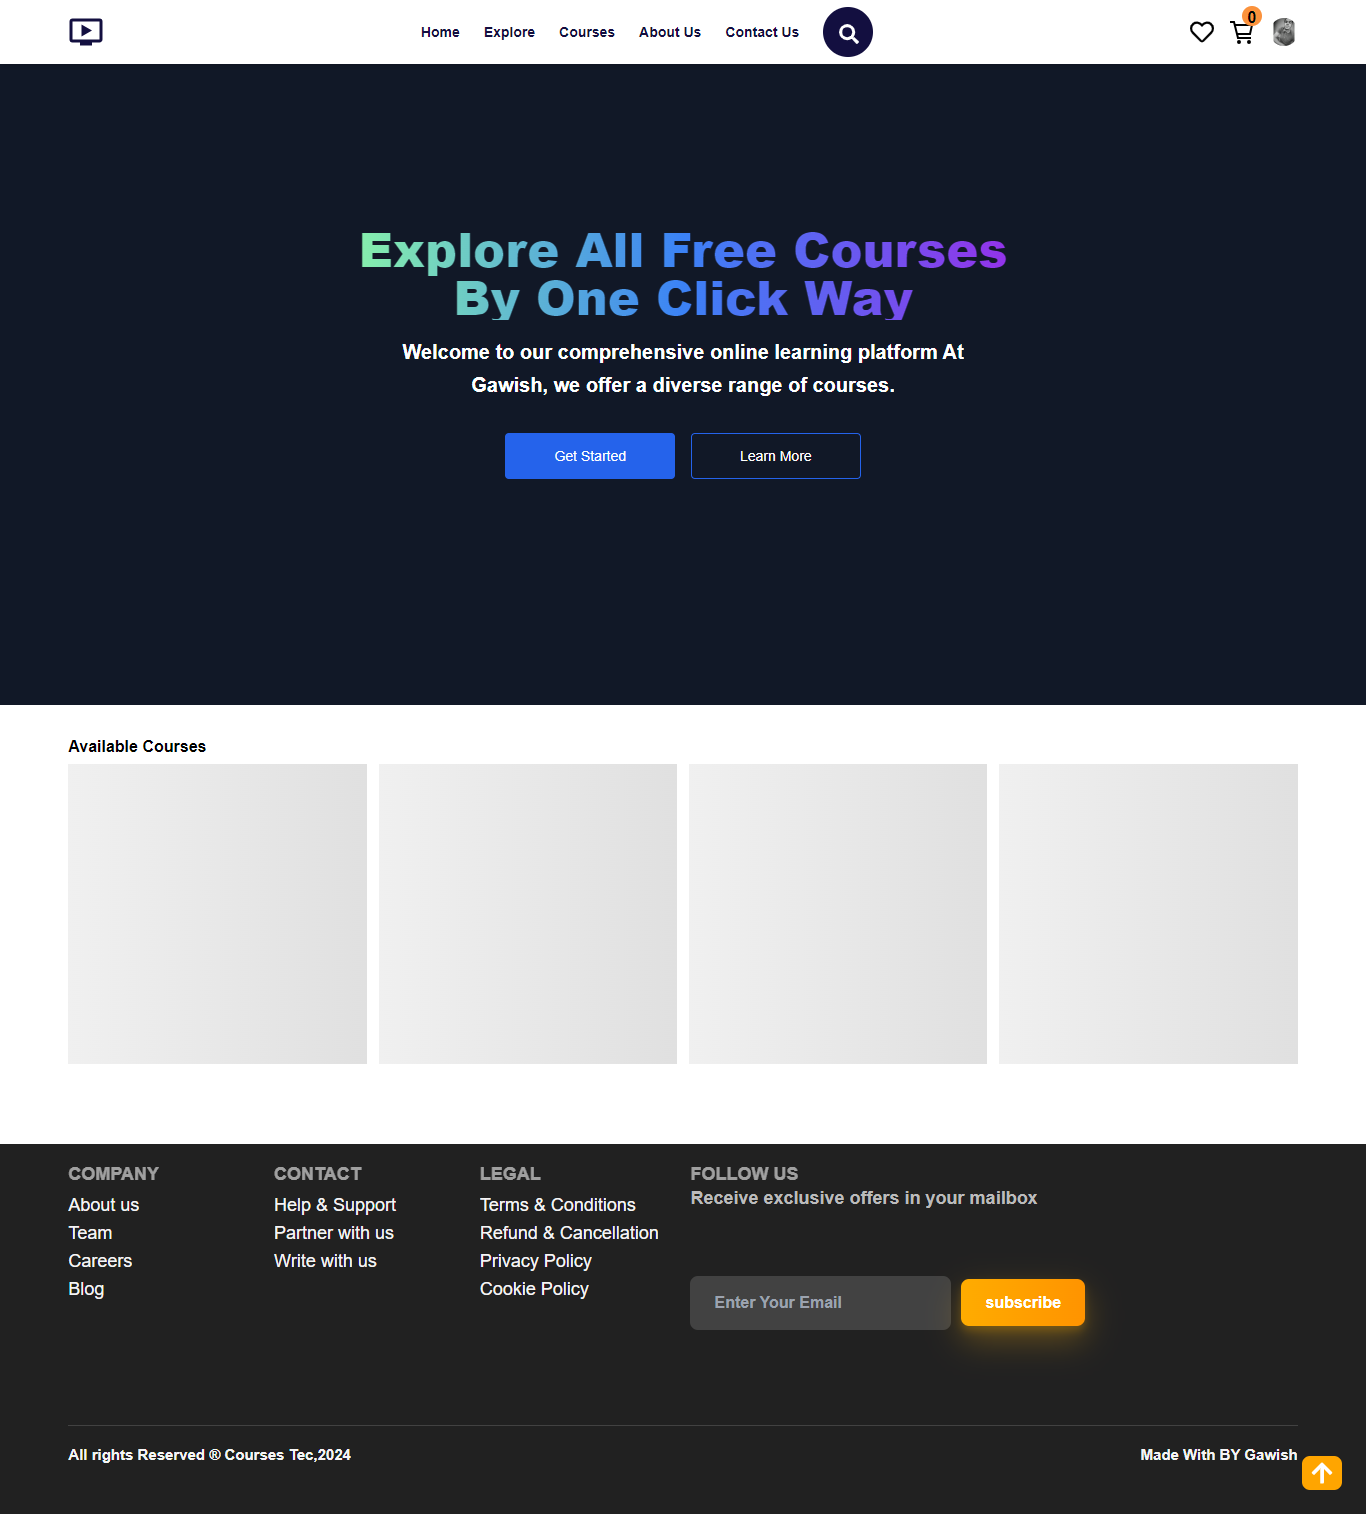
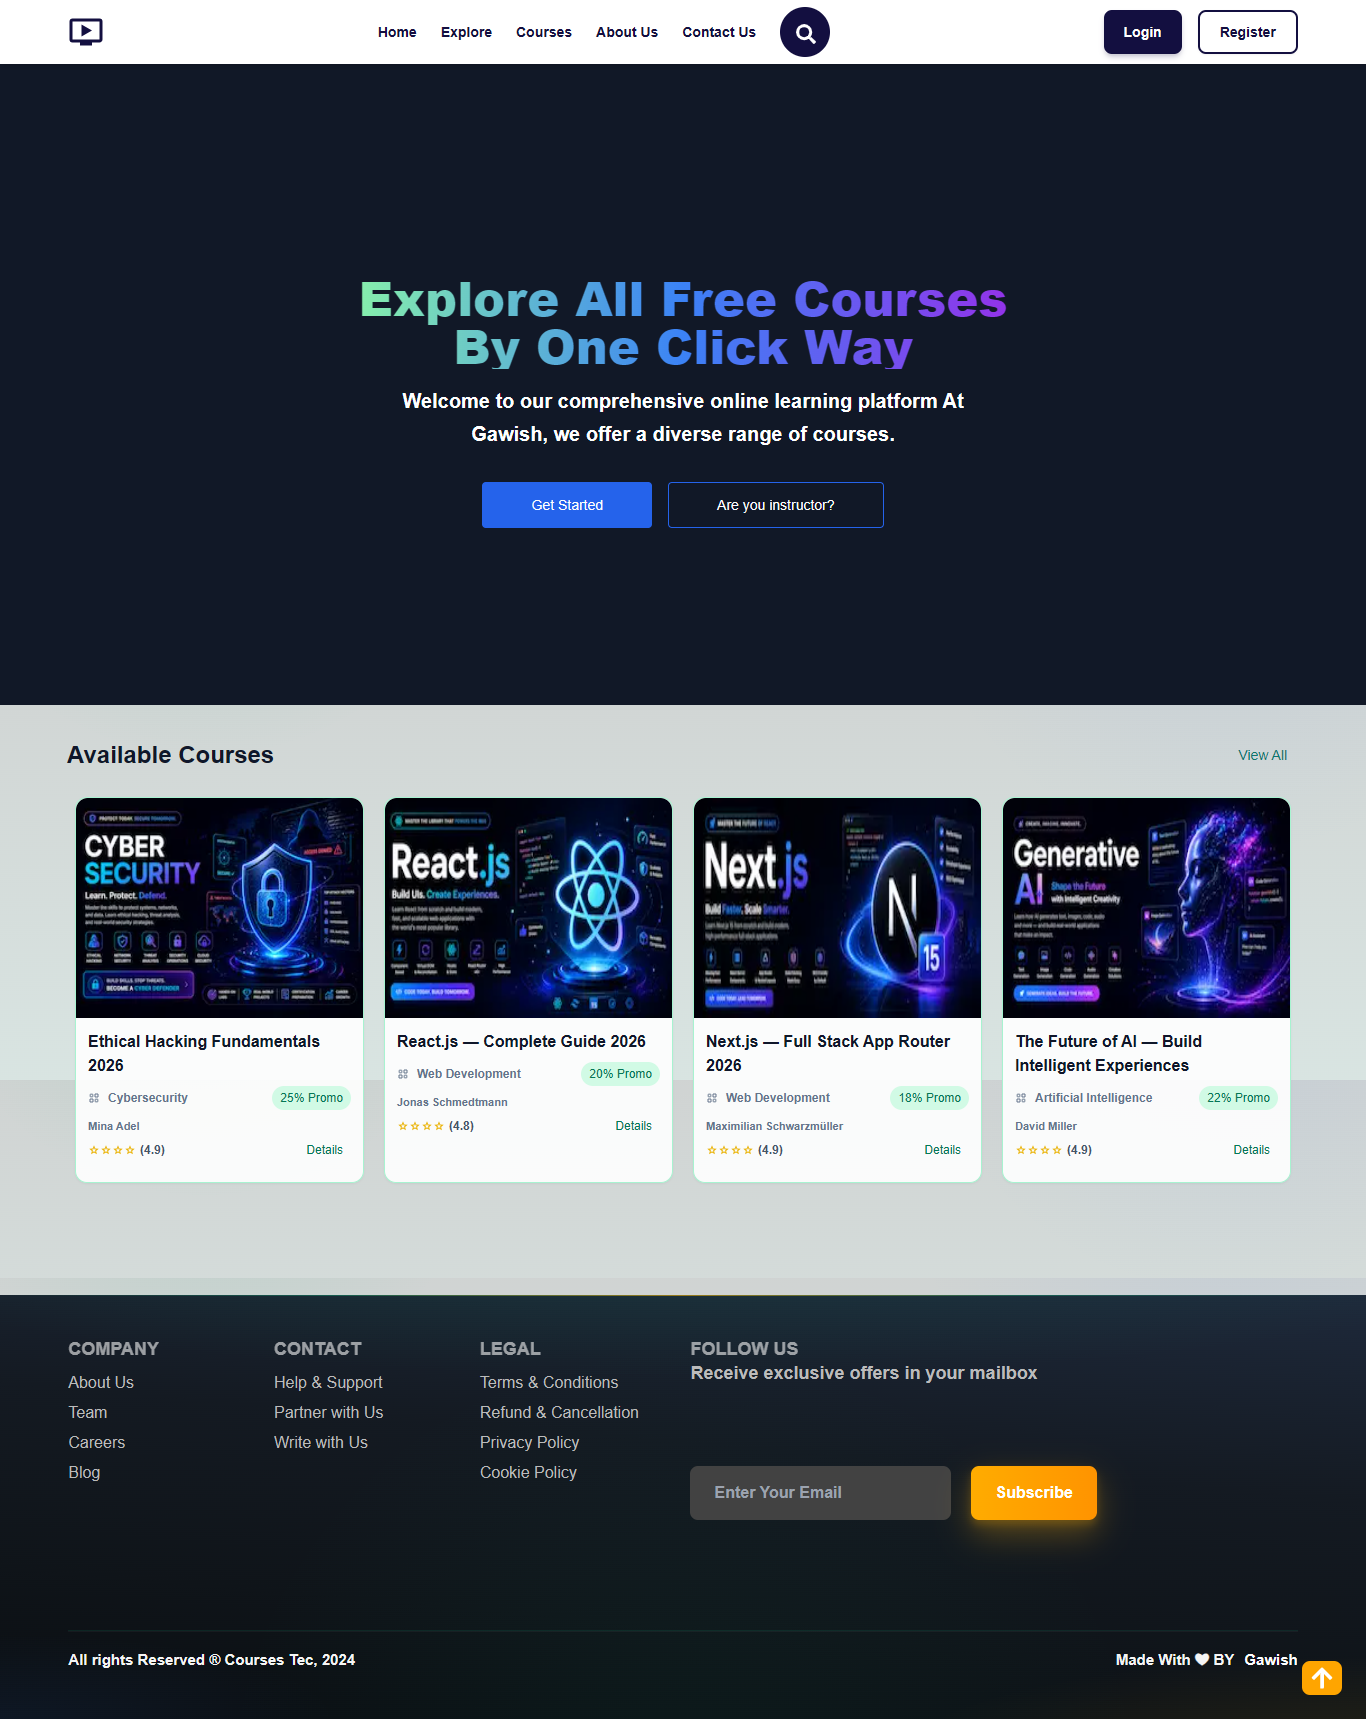
update: my cv and project courses-app

diff --git a/src/components/portfolio/data.jsx b/src/components/portfolio/data.jsx
@@ -81,7 +81,7 @@ export const webProjects = [
     title: "Courses Tech App",
     description: "Training Project",
     technologies: "HTML - CSS - JS - Tailwind - Next.js - Strapi - Stripe - ClerkAuth - Cloudinary",
-    url: "https://fullstack-courses-app-3vdz.vercel.app/",
+    url: "https://fullstack-courses-app-aj95.vercel.app/",
     linkText: "Demo",
     idea: "Website for learning courses. Features: browse courses, enroll and pay, user auth, and CMS-managed content.",
     role: "Responsible for responsive design and integrating Strapi CMS, Stripe, Clerk auth, and Cloudinary.",
@@ -247,7 +247,7 @@ export const allProjects = [
     description: "Training Project",
     technologies: "(HTML - CSS- JS - Tailwind - Nextjs - Strapi(CMS) - Stripe - ClerkAuth - Cloudinary)",
     image: Courses,
-    url: "https://fullstack-courses-app-3vdz.vercel.app/",
+    url: "https://fullstack-courses-app-aj95.vercel.app/",
     linkText: "Demo",
     idea: "Website for learning courses. Features: browse courses, enroll and pay, user auth, and CMS-managed content.",
     role: "Responsible for responsive design and integrating Strapi CMS, Stripe, Clerk auth, and Cloudinary.",